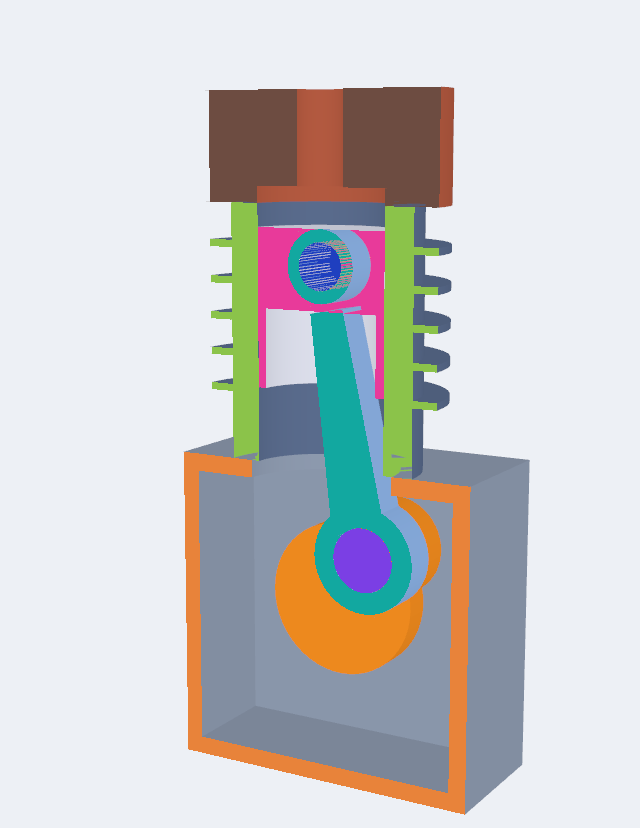
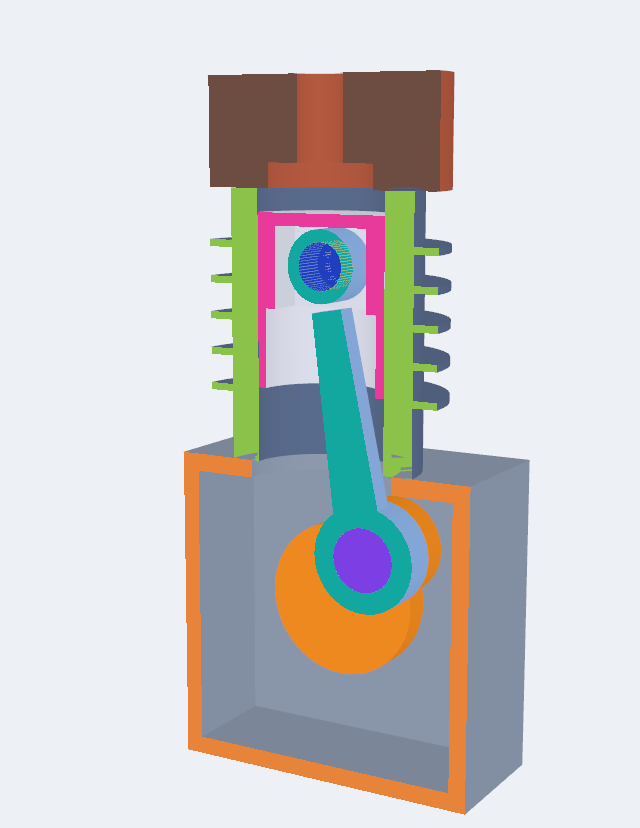
CH13: fix the clashes bar j found (rod slot + crown 14, deck 115.2; rod shank 12 thick; 32 mm chamber with squish band, same volume). ch13 92 ok / 0 fail; easypart 73, peasy3 23, freestart 14 all PASS. Bars c/g literals amended to the new geometry (marked)

Changed region(s): [[0.3125, 0.1812, 0.7188, 0.6039], [0.3125, 0.0604, 0.7188, 0.1208], [0.5, 0.4831, 0.5312, 0.6039]]

diff --git a/docs/CH13_FEEDBACK.md b/docs/CH13_FEEDBACK.md
@@ -1,4 +1,4 @@
-# CH13 feedback: single-cylinder engine (tests/ch13_test.gd, 84 ok, 0 fail)
+# CH13 feedback: single-cylinder engine (tests/ch13_test.gd, 92 ok, 0 fail)
 
 Reference, sources, assumptions: docs/CH13_REFERENCE.md. Code: scripts/build/ch13_engine.gd (maths), ch13_parts.gd (seven Part records + posed assembly), ch13_scene.gd (3D scene + section). All GDScript (about 3000 closed-form samples; no native twin warranted).
 
@@ -15,13 +15,13 @@ The code chose H7/e7 for the piston: the tightest candidate with hot minimum >= 
 
 ## Stack-up
 - crank end-float 0.300 mm nominal: worst +-103.5 um (0.1965..0.4035 mm), RSS +-65.09 um; the 16 corners equal the worst case.
-- deck clearance 0.500 mm nominal: worst +-119.5 um, RSS +-75.64 um.
+- deck clearance 0.500 mm nominal: worst +-123.0 um (min 0.377 mm), RSS +-76.55 um (crown to pin is 14 mm since bar j, IT9 10-18).
 
 ## Torque against the cited engine (Honda C50 2007: 49.5 cc, 10:1, 2.5 kW at 7000 rpm, 3.8 N m at 5000 rpm)
 Pressure curve (an input): n = 1.30, intake 0.85 bar, tau = 4.0 chosen before running, Wiebe burn from 20 deg BTDC over 50 deg: peak 47.0 bar at 374 deg; IMEP 8.70 bar (torque integral = pdV integral to 0.5 pct), Chen-Flynn FMEP 1.59 bar at 7000 rpm, BMEP 7.11 bar.
 - 7000 rpm: 2.80 N m, 2.05 kW (82 pct of the 2.5 kW spec).
 - 5000 rpm: 2.91 N m (77 pct of 3.8 N m).
-Inside the 0.5x..1.5x sanity band; both are below the spec, and tau was not tuned. The spec's own BMEP at 5000 rpm is 9.6 bar, high for a 4-stroke 50 cc; the manufacturer's numbers may be generous. Reciprocating mass from the CAD volumes: 189.5 g (heavier than a real C50 piston set, because the piston is a simplified solid-crown design).
+Inside the 0.5x..1.5x sanity band; both are below the spec, and tau was not tuned. The spec's own BMEP at 5000 rpm is 9.6 bar, high for a 4-stroke 50 cc; the manufacturer's numbers may be generous. Reciprocating mass from the CAD volumes: 157.1 g (189.5 g before bar j; the rod slot and the thinner shank took material out). The brake numbers don't move: inertia torque has zero mean.
 
 ## 3D-print compensation (Grgic et al. 2023)
 CAD at the mid-zone of the limits; 13 G6/h5 is finer than the IT9 the study demonstrated, so the prototype uses G9/h9: hole 13.0275, shaft 12.9785; with slicer HHE 0 the hole is drawn 13.2875 (+0.26). The printer model (hole prints 0.26 mm small without HHE) puts the compensated hole on 13.0275 (inside 13.006..13.049) and the uncompensated one on 12.7675 (outside; planted control).
@@ -30,8 +30,18 @@ CAD at the mid-zone of the limits; 13 G6/h5 is finer than the IT9 the study demo
 - before the first run: formula tolerance 1 -> 1.5 um (ISO rounds: d 18-30 formula 63.8 vs table 65, IT10 50-80 118.8 vs 120).
 - after the first run: pose bars 1e-6 -> 1e-4 mm (Godot's Transform3D is single precision; the measured stroke error was 2e-6 mm); the frame-difference bar failed because the engine was too small in the picture: camera moved closer and the grab cropped (the 0.002 threshold itself unchanged).
 
+## Bar j: CAD interference (added at the lead's review; KCad.overlap_volume, about 390 booleans in 2 s)
+Committed before its first run (9a9522ca). First run: 89 ok, 3 fail. It found four real faults the dimension bars could not see:
+- the rod's small eye (r 10) sat inside the solid piston crown: 3.7 cm3 shared at every angle (the crown was only 10 mm over the pin).
+- the 20 mm thick rod shank hit the cylinder bore bottom at 50-80 deg (9.7 mm3): a round 39 mm bore is only +-16.75 mm wide at z +-10, the rod's faces.
+- the same shank grazed the case's top opening at 60-70 deg (0.05 mm3; r 22 is +-19.6 wide at z +-10).
+- the crown to head gap at TDC measured 5.10 mm, not the 0.50 deck clearance: the chamber was as wide as the bore (39 x 4.6), so the piston could rise into it and the "rod 2 mm longer" control could not fail.
+
+Fixes (geometry, not bars): a rod slot between the pin bosses (28 x 21, up to 0.5 over the eye) and crown to pin 10 -> 14 (deck 111.2 -> 115.2, cylinder 71.2 -> 75.2); the rod shank 12 thick instead of 20 (eyes stay 20), half widths 7 / 4.5; a 32 mm chamber 6.83 deep with a squish band (same volume as 39 x 4.6, so the compression ratio is unchanged). The deck-chain and volume literals in bars c and g were amended to the new geometry, marked AMENDED in the test.
+Second run, 92 ok: no non-fit pair shares volume at any of 36 angles; the 5 fit pairs share none either; a gauge of each shaft grown to its fit's minimum clearance overlaps 0 and a gauge 2 um over each hole overlaps (0.5-5.9 mm3), so the geometry carries the fits; crown to head at TDC 0.5006 mm on the solids vs 0.500 nominal; controls: rod +2 mm -> 580 mm3 into the head, pin +1 mm -> 418 mm3 into the small end.
+
 ## Looking at the pictures (docs/ch13/sheet_animation.png, docs/ch13/section.png; also C:/Temp/claude/ch13/)
 Sheet: 12 frames, 60 deg apart, over two revolutions; row 2 is identical to row 1 (the periodicity bar, and visible). The crank pin swings round, the rod swings and the piston travels in the cylinder. Weaknesses seen: the piston at TDC hides behind the head and the see-through cylinder; the case and cylinder are drawn 30 pct opaque so the moving parts show. Section: every part has its own cap colour (case orange, liner green, piston pink, pin blue, rod teal, crank orange, journal purple, head brown); the head's plug bore and the rod's two eyes read clearly. The pin in its boss shows a hatch pattern: the cut faces of pin and boss are 4 um apart (z-fighting, not a defect of the geometry).
 
 ## Not done
-- no CAD interference check between the mating parts (the clearances are checked as dimensions, the volumes as closed forms); no crank balance; Chen-Flynn coefficients, the 1/3 rod split, the 5 um hot criterion and the part temperatures are recalled or assumed (marked in the reference).
+- no crank balance; Chen-Flynn coefficients, the 1/3 rod split, the 5 um hot criterion and the part temperatures are recalled or assumed (marked in the reference).

diff --git a/docs/CH13_REFERENCE.md b/docs/CH13_REFERENCE.md
@@ -9,7 +9,7 @@ Honda C50 Super Cub (2007), 4-stroke single cylinder, air cooled:
   Source: https://www.motorcyclespecs.co.za/model/Honda/Honda_C50_Cub_07.html and https://www.moto-data.net/honda/c50-super-cub-2007 (the two agree).
   (Older C50 listings give 37 mm bore and 8.8:1; this lane uses the 2007 figures.)
 - NOT in any source found, ASSUMED by me (design inputs, not Honda data): rod centre distance L = 80 mm, piston pin O.D. 13 mm,
-  crank main journal O.D. 20 mm, crank pin O.D. 18 mm, piston height 40 mm, piston mass from the CAD volume (aluminium 2700 kg/m3).
+  crank main journal O.D. 20 mm, crank pin O.D. 18 mm, piston height 40 mm (built 44; 48 with crown 14 over the pin after bar j's interference check), piston mass from the CAD volume (aluminium 2700 kg/m3).
 
 ## 2. Limits and fits (ISO 286-1:2010 / ISO 286-2)
 
